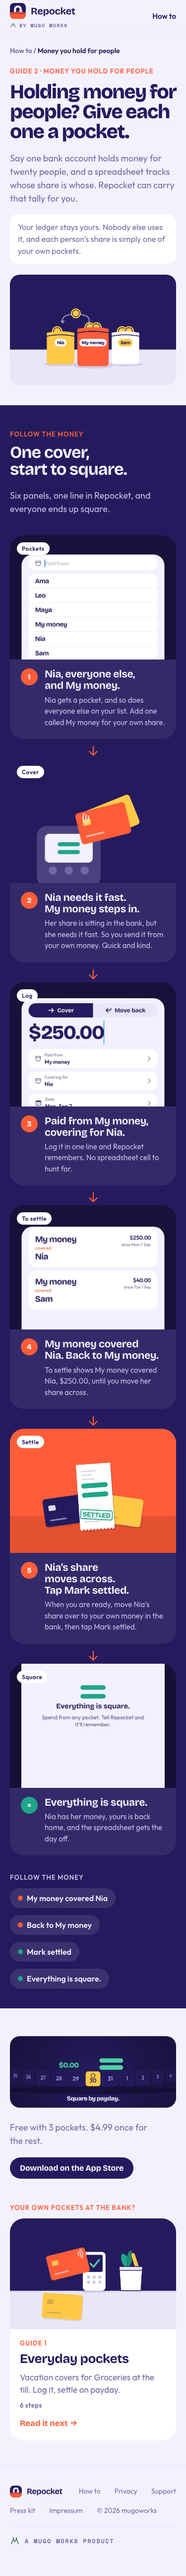
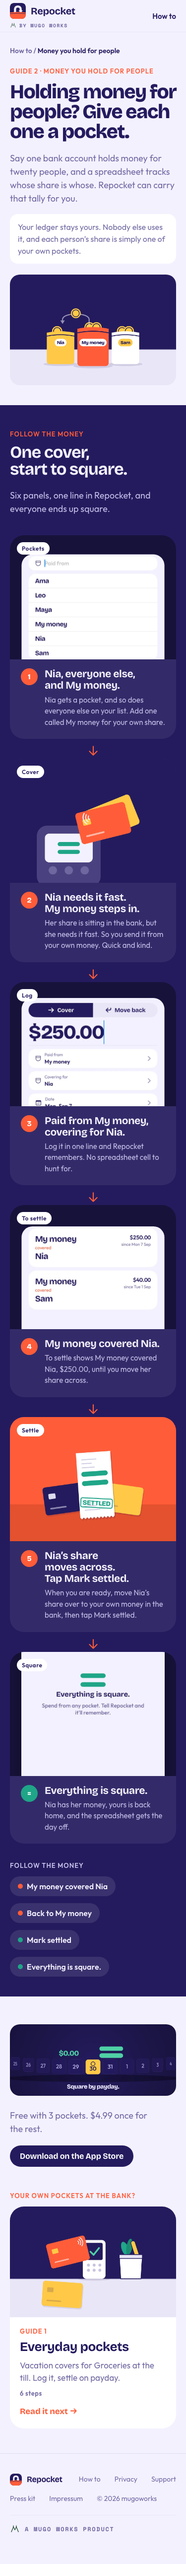
fix(how-to): panel 4's heading is just "My money covered Nia." [repocket-site-es7]
Owner decision on PR #35: the people guide's To settle panel heading
drops "Back to My money." and reads "My money covered Nia.", matching the
flat screen it sits under. The tally pills are unchanged. The two people
renders are re-rendered at 1440 and 375.

Bead: repocket-site-es7

diff --git a/how-to/people.html b/how-to/people.html
@@ -151,7 +151,7 @@ footer{padding:40px 0 60px;border-top:1px solid rgba(36,27,94,.1);font-size:14px
   <li class="pn">
    <span class="chip">To settle</span>
    <div class="frame scr at at-settle"><img src="../assets/screens/how-to/people-to-settle.webp" width="640" height="1392" decoding="async" loading="lazy" alt="Repocket's To settle screen: $375.00, 3 to settle. Three cards read My money covered Ama, $85.00 since Sun 30 Aug; My money covered Nia, $250.00 since Mon 7 Sep; and My money covered Sam, $40.00 since Tue 1 Sep."></div>
-   <div class="cap"><span class="no" aria-hidden="true">4</span><div><h3>My money covered Nia. Back to My money.</h3><p>To settle shows My money covered Nia, $250.00, until you move her share across.</p></div></div>
+   <div class="cap"><span class="no" aria-hidden="true">4</span><div><h3>My money covered Nia.</h3><p>To settle shows My money covered Nia, $250.00, until you move her share across.</p></div></div>
   </li>
   <li class="pn">
    <span class="chip">Settle</span>
